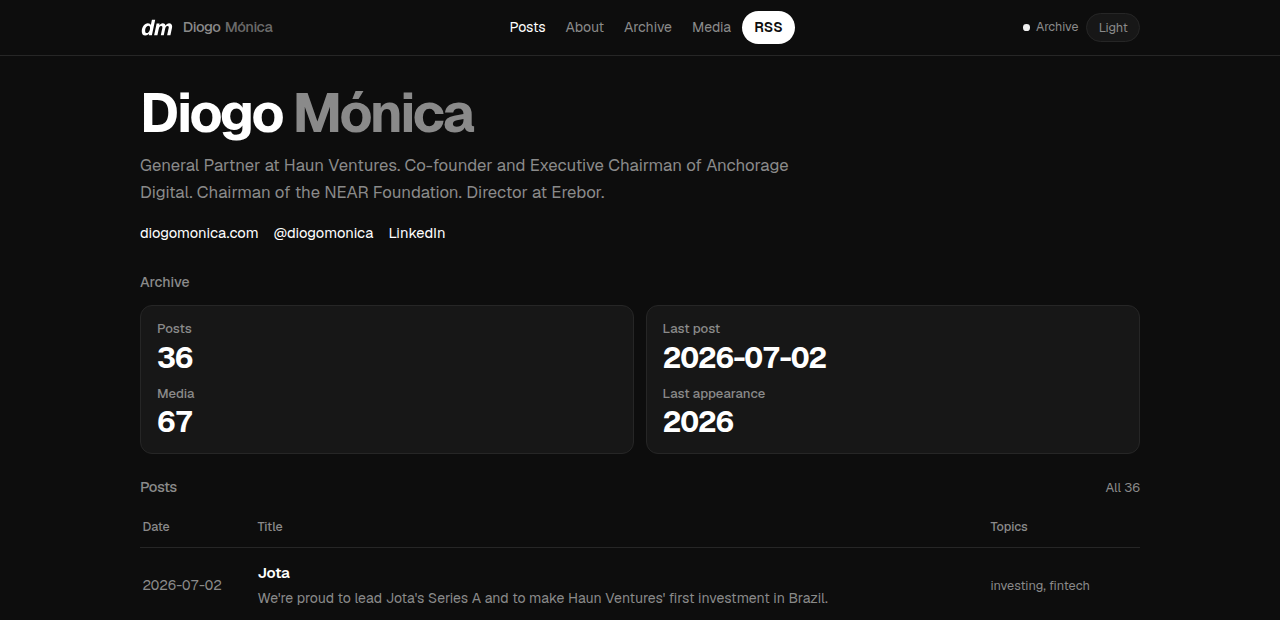
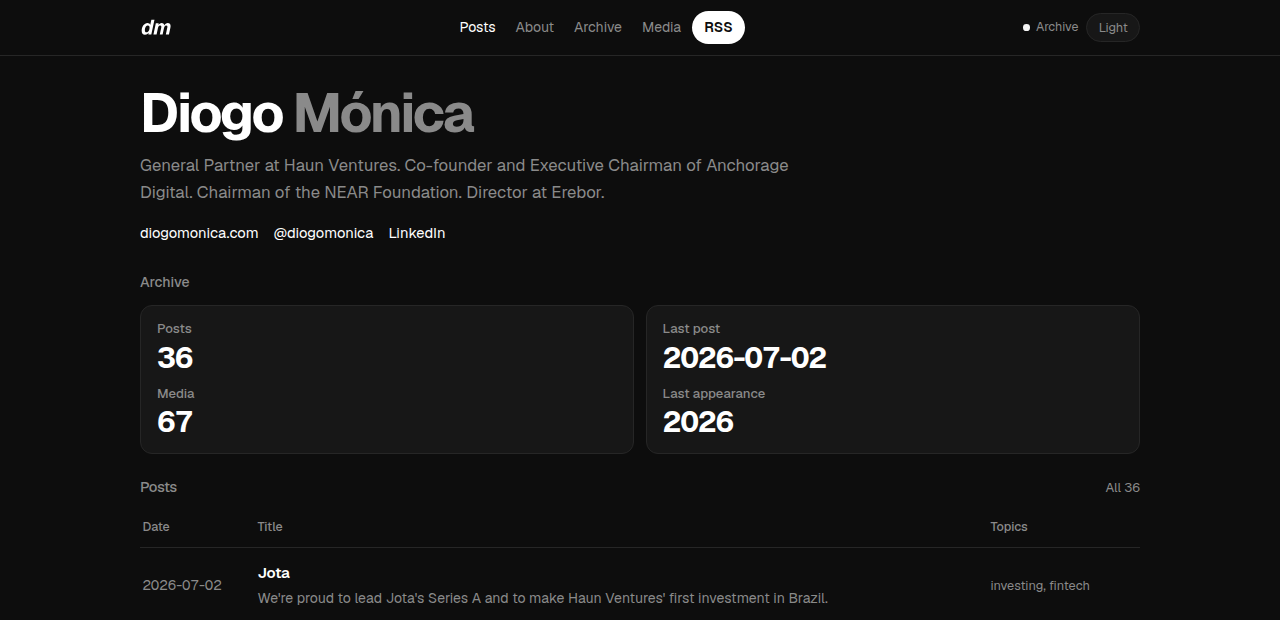
Let the header dm mark stand alone.
Remove the visible Diogo Mónica lockup beside the italic dm in the
top-left header. Keep the accessible site name via aria-label and
visually hidden text. Refresh desktop and mobile header screenshots.

Changed region(s): [[0.3438, 0.0, 0.625, 0.0919], [0.0938, 0.0306, 0.2188, 0.0613]]

diff --git a/src/styles/global.css b/src/styles/global.css
@@ -105,12 +105,8 @@ a:hover { color: var(--muted); }
 .brand {
   display: flex;
   align-items: center;
-  gap: 0.55rem;
   color: var(--fg);
   text-decoration: none;
-  font-weight: 600;
-  font-size: 1.05rem;
-  letter-spacing: -0.03em;
 }
 .brand-mark {
   display: block;
@@ -119,16 +115,17 @@ a:hover { color: var(--muted); }
   color: var(--fg);
   flex-shrink: 0;
 }
-.brand-lockup {
-  display: flex;
-  align-items: baseline;
-  gap: 0.28em;
-  font-size: 0.92rem;
-  font-weight: 500;
-  letter-spacing: -0.03em;
+.sr-only {
+  position: absolute;
+  width: 1px;
+  height: 1px;
+  padding: 0;
+  margin: -1px;
+  overflow: hidden;
+  clip: rect(0 0 0 0);
+  white-space: nowrap;
+  border: 0;
 }
-.brand-name { color: var(--muted); font-weight: 500; }
-.brand-sub { color: var(--faint); font-weight: 500; }
 
 .top-nav {
   display: flex;
